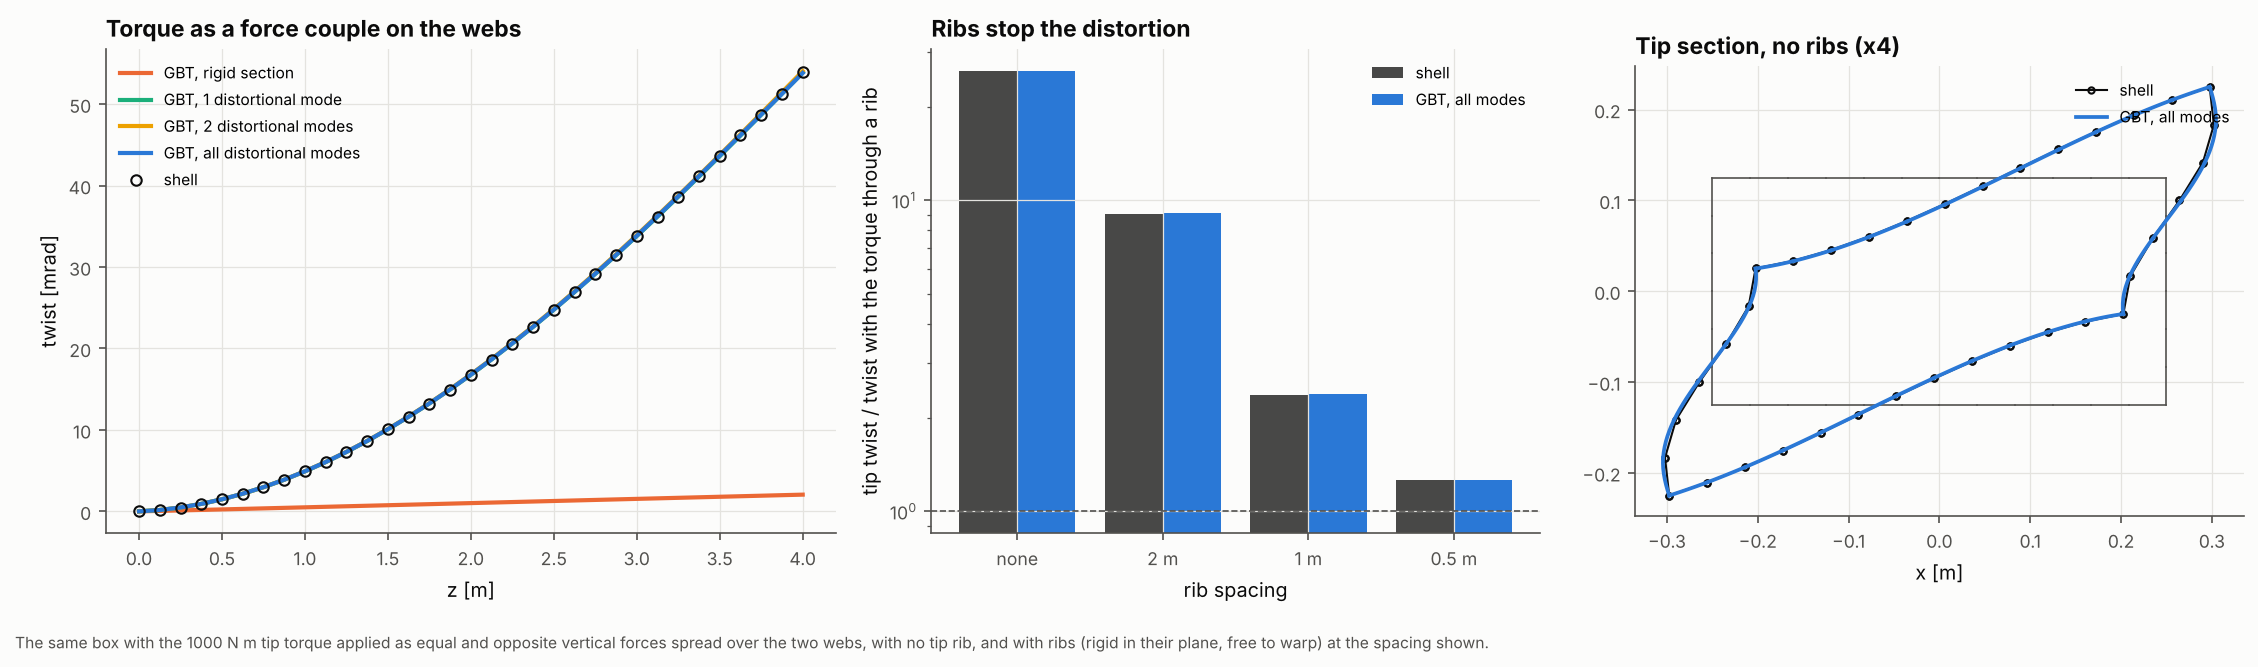
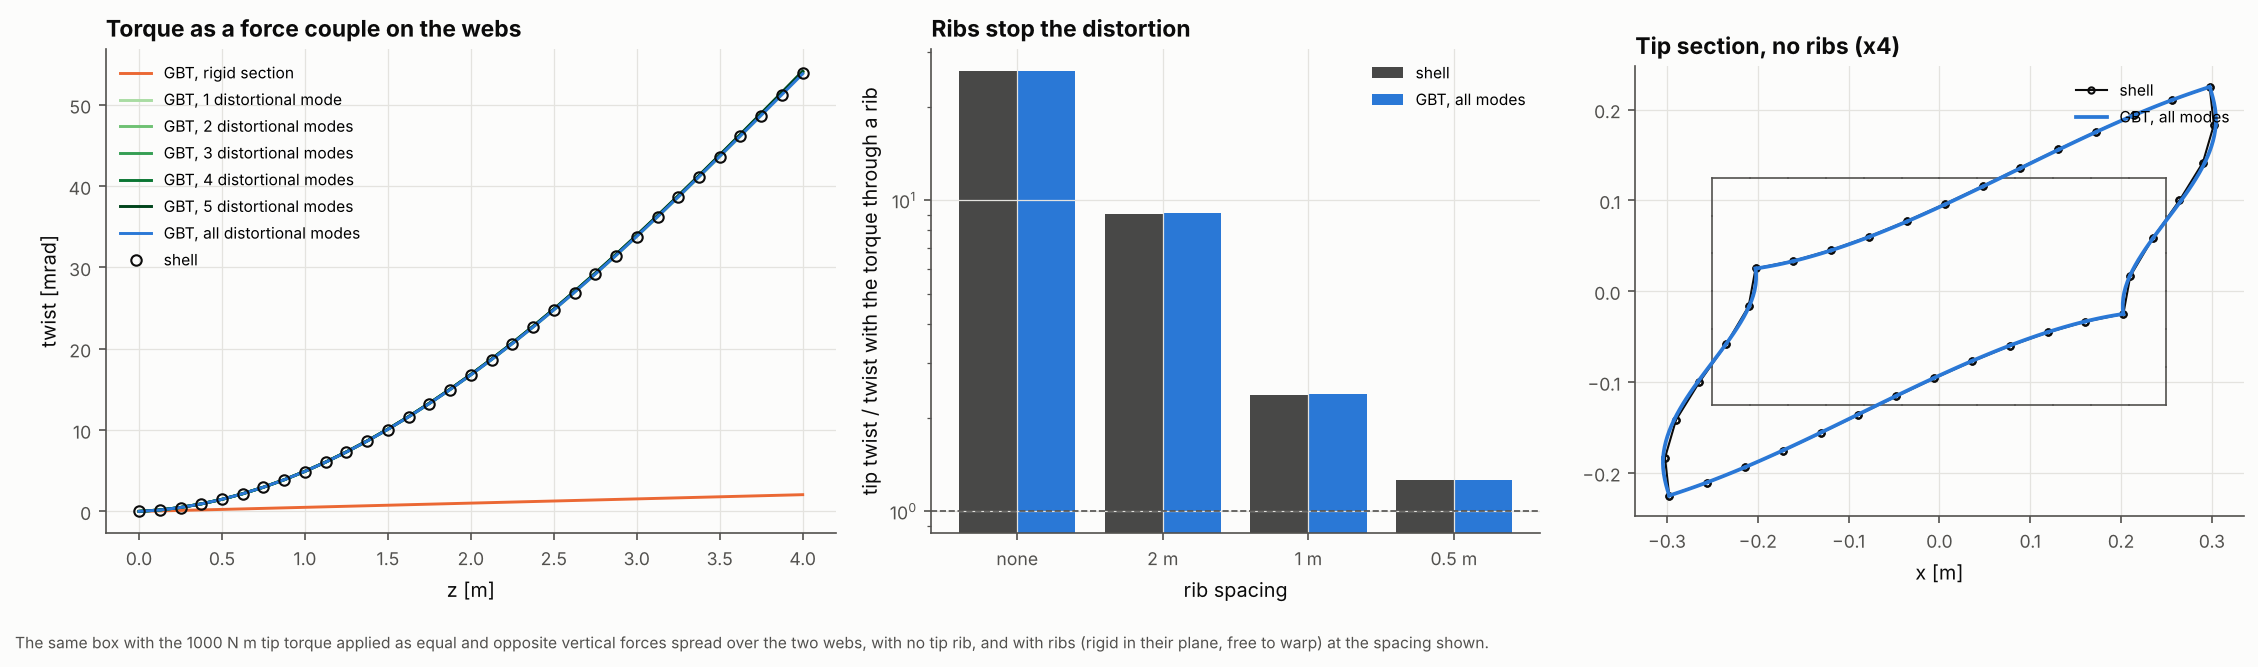
Examples 27 and 28: show distortional modes 1 to 5
Section figures now draw the five softest distortional modes with the
stiffness spectrum, and the force-couple convergence studies step through
1 to 5 modes one at a time.

Claude-Session: https://claude.ai/code/session_014haRRQeB4dnsXjHUxyykpF

diff --git a/examples/28_blade_torsion_hierarchy/blade_torsion_hierarchy.py b/examples/28_blade_torsion_hierarchy/blade_torsion_hierarchy.py
@@ -44,6 +44,7 @@ WEBS = [ShearWeb("web_fwd", 0.18, 4), ShearWeb("web_aft", 0.48, 4)]
 TORQUE = 1.0e3  # N m
 RIB_SPACINGS = [None, 3.0, 1.5, 0.75]
 N_GBT = 24  # GBT elements along the span
+N_SHOWN_MODES = 5  # distortional mode shapes drawn in the section figure
 
 
 def laminates(lib):
@@ -157,7 +158,7 @@ def main():
     # ---------------------------------------------------------------- 3. distortion: skin force couple
     # GBT levels: 0 = rigid section, n = n distortional modes, None = all, "ext" = all + wall stretching
     couple = {}
-    mode_counts = (0, 1, 2, 4, 8, None, "ext")
+    mode_counts = (0, 1, 2, 3, 4, 5, 8, None, "ext")
     modes_ext = GeneralizedBeam(sec, LENGTH, 2, "full", None, extensible=True).modes
 
     def level(n, ribs):
@@ -181,8 +182,11 @@ def main():
                           for n, g in gbt.items()))
 
     # ================================================================ figure 1: the section
-    fig, axes = plt.subplots(2, 3, figsize=(15, 5.6))
-    ax = axes[0, 0]
+    fig = plt.figure(figsize=(15, 4.6))
+    upper, lower = fig.subfigures(2, 1, height_ratios=[1.35, 0.65])
+    top = list(upper.subplots(1, 3, gridspec_kw={"wspace": 0.5}))
+    mode_axes = list(lower.subplots(1, N_SHOWN_MODES, sharex=True, sharey=True))
+    ax = top[0]
     qmax = np.max(np.abs(sec.shear_flow))
     for k in range(len(sec.walls)):
         a, b = sec.points[sec.start[k]], sec.points[sec.end[k]]
@@ -199,7 +203,7 @@ def main():
     ax.set_aspect("equal")
     ax.set_title("Saint-Venant shear flow in three cells", loc="left")
     ax.legend(loc="upper right", fontsize=7.5, ncol=1)
-    ax = axes[0, 1]
+    ax = top[1]
     om = sec.omega
     vmax = np.max(np.abs(om))
     for k in range(len(sec.walls)):
@@ -210,15 +214,18 @@ def main():
     sm = plt.cm.ScalarMappable(cmap=DIVERGING, norm=plt.Normalize(-vmax * 1e3, vmax * 1e3))
     fig.colorbar(sm, ax=ax, fraction=0.03, pad=0.02, label="ω [10⁻³ m²]")
     ax.set_aspect("equal")
-    ax.set_title("Warping function ω about the shear centre", loc="left")
-    ax = axes[0, 2]
+    ax.set_title("Warping function ω", loc="left")
+    ax = top[2]
     k_d = modes_all.all_distortional_stiffness
     ax.semilogy(np.arange(1, len(k_d) + 1), k_d, ".", color=SERIES[0], ms=4)
+    ax.semilogy(np.arange(1, N_SHOWN_MODES + 1), k_d[:N_SHOWN_MODES], "o", color=SERIES[0], mfc="none", ms=7,
+                label=f"modes 1 to {N_SHOWN_MODES}, shown below")
+    ax.legend(fontsize=7.5)
     ax.set_xlabel("distortional mode")
     ax.set_ylabel("transverse bending stiffness")
     ax.set_title(f"{len(k_d)} distortional modes, softest first", loc="left")
     base = modes_all.wall_points()
-    for c, ax in enumerate(axes[1]):
+    for c, ax in enumerate(mode_axes):
         shape = modes_all.in_plane_shape(3 + c)
         for p0, du in zip(base, shape):
             ax.plot(p0[:, 0], p0[:, 1], color=TEXT_SECONDARY, lw=0.7)
@@ -226,7 +233,6 @@ def main():
         ax.set_aspect("equal")
         ax.set_title(f"Distortional mode {c + 1}", loc="left")
         ax.set_xlabel("x [m]")
-    fig.tight_layout()
     save(fig, __file__, "blade_torsion_section.png")
 
     # ================================================================ figure 2: Saint-Venant and bimoment
@@ -291,8 +297,8 @@ def main():
     fig, axes = plt.subplots(1, 3, figsize=(15, 4.3), gridspec_kw={"width_ratios": [1.15, 1.0, 1.25]})
     ax = axes[0]
     tw, gbt, s_c = couple[None]
-    colours = [SERIES[1], SERIES[2], SERIES[3], SERIES[4], SERIES[6], SERIES[0], SERIES[7]]
-    for (n, gs), colour in zip(gbt.items(), colours):
+    for n, gs in gbt.items():
+        colour = {0: SERIES[1], None: SERIES[0], "ext": SERIES[7]}.get(n) or plt.cm.Greens(0.3 + 0.7 * (n - 1) / 7)
         ax.plot(zs, 1e3 * gs.mean_twist(zs), color=colour, lw=1.6, ls="--" if n == "ext" else "-",
                 label=f"GBT, {name(n)}" if n in (0, None, "ext") else f"GBT, {n} distortional mode{'s' if n > 1 else ''}")
     ax.plot(zs, 1e3 * tw, "o", color=REFERENCE, mfc="none", ms=5, label="shell")

diff --git a/examples/27_box_spar_torsion/box_spar_torsion.py b/examples/27_box_spar_torsion/box_spar_torsion.py
@@ -37,6 +37,7 @@ WIDTH, HEIGHT, LENGTH = 0.5, 0.25, 4.0
 N_WIDTH, N_HEIGHT, N_SPAN = 6, 3, 32
 TORQUE = 1.0e3  # N m
 RIB_SPACINGS = [None, 2.0, 1.0, 0.5]
+N_SHOWN_MODES = 5  # distortional mode shapes drawn in the section figure
 
 
 def laminates(lib):
@@ -125,7 +126,8 @@ def main():
         ribs_shell = [z for z in ribs if z < LENGTH - 1e-9]
         mesh_b, _, sol_b = shell_case(box, sec, ribs_shell, "couple")
         shell_tw = np.array([0.0] + [shell_section_motion(sol_b, mesh_b, sections[float(z)], float(z)).twist for z in zs[1:]])
-        gbt = {n: gbt_case(sec, ribs_shell, "couple", "full", n).mean_twist(zs) for n in (0, 1, 2, None)}
+        counts = (0, 1, 2, 3, 4, 5, None) if spacing is None else (0, 1, None)
+        gbt = {n: gbt_case(sec, ribs_shell, "couple", "full", n).mean_twist(zs) for n in counts}
         couple[spacing] = (shell_tw, gbt)
         label = "no ribs" if spacing is None else f"ribs every {spacing:g} m"
         print(f"Web couple, {label}: tip twist shell {1e3 * shell_tw[-1]:.4f} mrad; GBT " + ", ".join(
@@ -136,7 +138,10 @@ def main():
 
     # ================================================================ figure 1: the section
     modes = g_full.beam.modes
-    fig, axes = plt.subplots(1, 4, figsize=(15, 3.6))
+    fig = plt.figure(figsize=(15, 6.0))
+    upper, lower = fig.subfigures(2, 1, height_ratios=[1.15, 1.0])
+    axes = list(upper.subplots(1, 3, gridspec_kw={"wspace": 0.5}))
+    mode_axes = list(lower.subplots(1, N_SHOWN_MODES, sharex=True, sharey=True))
     ax = axes[0]
     for k, (a, b) in enumerate(sec.contour()):
         ax.plot([a[0], b[0]], [a[1], b[1]], color=SERIES[1] if sec.walls[k].name.startswith("cap") else SERIES[2],
@@ -167,7 +172,16 @@ def main():
     ax.set_aspect("equal")
     ax.set_title("Warping function ω (Benscoter)", loc="left")
     ax.set_xlabel("x [m]")
-    for idx, ax in zip((3, 4), axes[2:]):
+    ax = axes[2]
+    k_d = modes.all_distortional_stiffness
+    ax.semilogy(np.arange(1, len(k_d) + 1), k_d, ".", color=SERIES[0], ms=5)
+    ax.semilogy(np.arange(1, N_SHOWN_MODES + 1), k_d[:N_SHOWN_MODES], "o", color=SERIES[0], mfc="none", ms=8,
+                label=f"modes 1 to {N_SHOWN_MODES}, shown below")
+    ax.set_xlabel("distortional mode")
+    ax.set_ylabel("transverse bending stiffness")
+    ax.set_title(f"{len(k_d)} distortional modes, softest first", loc="left")
+    ax.legend(fontsize=7.5)
+    for idx, ax in zip(range(3, 3 + N_SHOWN_MODES), mode_axes):
         shape = modes.in_plane_shape(idx)
         base = modes.wall_points()
         scale = 0.08
@@ -179,7 +193,6 @@ def main():
         ax.set_xlabel("x [m]")
         ax.text(0.02, 0.02, f"stiffness {modes.all_distortional_stiffness[idx - 3]:.3g}", transform=ax.transAxes,
                 fontsize=7.5, color=TEXT_SECONDARY)
-    fig.tight_layout()
     save(fig, __file__, "box_spar_section.png")
 
     # ================================================================ figure 2: tip torque through a rib
@@ -246,8 +259,9 @@ def main():
     fig, axes = plt.subplots(1, 3, figsize=(15, 4.2), gridspec_kw={"width_ratios": [1.2, 1.0, 1.0]})
     ax = axes[0]
     shell_tw, gbt = couple[None]
-    for (n, tw), colour in zip(gbt.items(), (SERIES[1], SERIES[2], SERIES[3], SERIES[0])):
-        ax.plot(zs, 1e3 * tw, color=colour, label="GBT, rigid section" if n == 0 else
+    for n, tw in gbt.items():
+        colour = SERIES[1] if n == 0 else SERIES[0] if n is None else plt.cm.Greens(0.35 + 0.65 * (n - 1) / 4)
+        ax.plot(zs, 1e3 * tw, color=colour, lw=1.4, label="GBT, rigid section" if n == 0 else
                 f"GBT, {'all' if n is None else n} distortional mode{'s' if n != 1 else ''}")
     ax.plot(zs, 1e3 * shell_tw, "o", color=REFERENCE, mfc="none", ms=5, label="shell")
     ax.set_xlabel("z [m]")

diff --git a/examples/28_blade_torsion_hierarchy/README.md b/examples/28_blade_torsion_hierarchy/README.md
@@ -7,7 +7,7 @@ distort in their own plane. This example takes the three-cell section of example
 and adds each contribution in turn. Each layer is checked against a shell model of
 the same blade segment.
 
-![The section: Saint-Venant shear flows in the three cells, the warping function, and the softest distortional modes](figures/blade_torsion_section.png)
+![The section: Saint-Venant shear flows in the three cells, the warping function, and distortional modes 1 to 5, softest first](figures/blade_torsion_section.png)
 
 ![1 · Saint-Venant twist and GJ. 2 · The bimoment near the clamped root and the warping stresses round the skin](figures/blade_torsion_warping.png)
 
@@ -100,7 +100,9 @@ sits 8 mm aft of the pitch axis.
 | Rigid section | 2.89 | 3.46 |
 | 1 distortional mode | 16.44 | 22.38 |
 | 2 modes | 21.23 | 57.38 |
+| 3 modes | 21.24 | 57.40 |
 | 4 modes | 19.83 | 70.33 |
+| 5 modes | 19.83 | 70.34 |
 | 8 modes | 21.80 | 78.47 |
 | All 167 modes | 21.94 | 80.59 |
 | All modes + wall stretching | 22.06 | 86.98 |
@@ -116,8 +118,11 @@ sits 8 mm aft of the pitch axis.
 - Put into the skins instead of through a rib, the same torque twists the tip 25
   times more. Almost all of that is the section distorting near the load: the
   trailing-edge cell shears and the panels bow (right-hand panel).
-- The distortional modes converge in order. Eight modes give the twist 1 m from the
-  load within about 1%. At the loaded section itself, the skins also stretch round the
+- The distortional modes converge in order. Modes 1, 2 and 4 are antisymmetric and
+  carry the response: mode 1 racks the whole section, modes 2 and 4 add waves in the
+  trailing-edge panels. Modes 3 and 5 are symmetric (the trailing-edge panels breathe),
+  so the antisymmetric skin couple does almost no work on them and they change the twist
+  by under 0.05%. Eight modes give the twist 1 m from the load within about 1%. At the loaded section itself, the skins also stretch round the
   contour under the local loads. Adding that (the extensible walls) brings the tip
   within 1.4% of the shell. Classical inextensible GBT is 6% stiff there.
 - Ribs confine the distortion to the bay that carries the load (middle panel, logarithmic

diff --git a/examples/27_box_spar_torsion/README.md b/examples/27_box_spar_torsion/README.md
@@ -16,7 +16,7 @@ same box:
    adds the section's distortional modes as beam degrees of freedom: the box racking
    into a rhombus, the caps bowing. Ribs (diaphragms) stop them.
 
-![The section: Saint-Venant shear flow, the warping function and the two softest distortional modes](figures/box_spar_section.png)
+![The section: Saint-Venant shear flow, the warping function and distortional modes 1 to 5, softest first](figures/box_spar_section.png)
 
 ![Tip torque through a tip rib: twist lost to the warping restraint, bimoment near the root, and the warping stress resultant round the section](figures/box_spar_restrained_warping.png)
 
@@ -65,7 +65,7 @@ distortion.
 | Caps | [0₂/45/−45/−45/45/0₂] T300/5208, 8 × 0.5 mm |
 | Webs | [±45]s E-glass, 4 × 0.5 mm |
 | Shell | Flat Quad8 FSDT on the wall mid-surfaces: 32 along, 6 across each cap, 3 up each web |
-| GBT | 32 elements, graded towards the clamp and the ribs; full warping and all 33 distortional modes unless stated |
+| GBT | 32 elements, graded towards the clamp and the ribs; full warping and all 69 distortional modes unless stated |
 | Loads | 1 kN m at the tip, either through a tip rib (rigid in its plane, free to warp) or as equal and opposite vertical forces on the two webs with no rib |
 | Twist | The least-squares rotation of the section's nodes, measured the same way in the shell and GBT (an RBE3 reference node measures it the same way) |
 
@@ -122,6 +122,10 @@ the box centre.
 - Without ribs, the same torque introduced as forces on the webs twists the tip 26
   times more than through a rib. Nearly all of it is the rhombic distortion of the box,
   and the first GBT mode captures it alone. The rigid-section theories miss it.
+- Modes 1 to 5 one at a time (no ribs, tip twist): 1 mode 53.86, 2 to 4 modes 54.05,
+  5 modes 54.15, all modes 53.83 mrad, against 53.89 for the shell. Mode 1 is the
+  racking mode (top panel of the section figure). Modes 2 to 5 bow the walls, the load
+  does little work on them, and they move the twist by under 0.6%.
 - Ribs bring the response back towards the rigid section. GBT tracks the shell to
   within 1% at every rib spacing.
 
